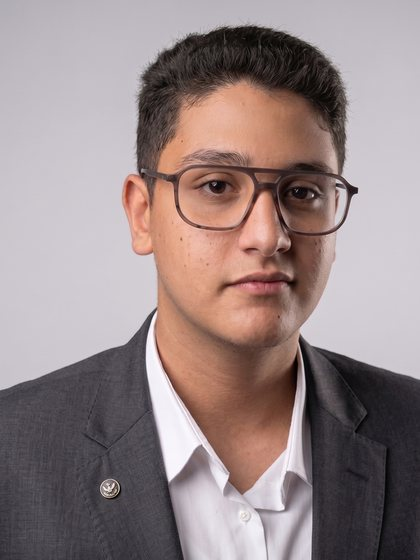
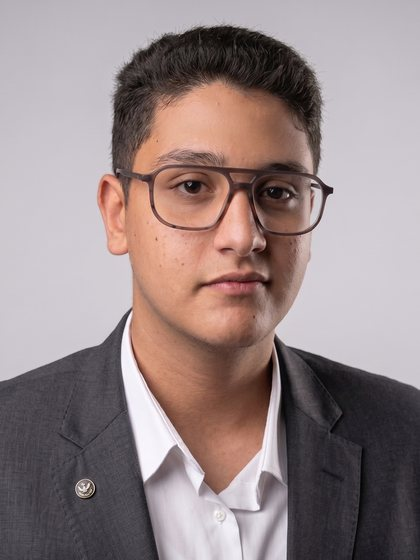
fix: centre the headshot, collapse the Smart Safe gallery, level the contact cards
- update-photo.sh now measures the subject's head against the backdrop and
  derives the crop centring from it instead of assuming dead centre. On this
  headshot the head sits at 0.539 of frame width, so the crop moves to 0.615
  and the face lands centred.
- Smart Safe gallery: one hero shot stays visible as zero-click proof and the
  remaining six move behind a "$ ls build/ — 6 more" toggle. Uses <details>,
  so it needs no JavaScript and is keyboard accessible by default.
- Contact cards stretch to equal height on desktop; the channel rows spread
  to fill so both cards end level. Stacked mobile layout is left alone.

diff --git a/index.html b/index.html
@@ -666,6 +666,64 @@
         grid-template-columns: repeat(auto-fill, minmax(140px, 1fr));
         gap: 10px;
       }
+      .shot-hero {
+        width: 100%;
+        max-width: 400px;
+        margin-bottom: 10px;
+        cursor: zoom-in;
+      }
+      .shot-hero img {
+        aspect-ratio: 4/3;
+      }
+      .shot-hero figcaption {
+        font-size: 11px;
+      }
+      .media-more {
+        margin-top: 2px;
+      }
+      .media-more > summary {
+        display: inline-flex;
+        align-items: center;
+        gap: 8px;
+        width: fit-content;
+        list-style: none;
+        cursor: pointer;
+        font-family: "JetBrains Mono", monospace;
+        font-size: 11.5px;
+        letter-spacing: 0.04em;
+        color: var(--text-dim);
+        background: rgba(92, 122, 107, 0.08);
+        border: 1px solid rgba(92, 122, 107, 0.34);
+        border-radius: 5px;
+        padding: 7px 13px;
+        transition:
+          border-color 0.16s ease,
+          color 0.16s ease;
+      }
+      .media-more > summary::-webkit-details-marker {
+        display: none;
+      }
+      .media-more > summary::before {
+        content: "$";
+        color: var(--green);
+      }
+      .media-more > summary::after {
+        content: "▸";
+        color: var(--green-soft);
+        transition: transform 0.16s ease;
+      }
+      .media-more[open] > summary::after {
+        transform: rotate(90deg);
+      }
+      .media-more > summary:hover,
+      .media-more > summary:focus-visible {
+        border-color: rgba(52, 211, 153, 0.5);
+        color: var(--text);
+        outline: none;
+      }
+      .media-more[open] > summary {
+        margin-bottom: 12px;
+      }
       .shot {
         position: relative;
         display: block;
@@ -939,7 +997,22 @@
         display: grid;
         grid-template-columns: 1fr;
         gap: 20px;
-        align-items: start;
+        align-items: stretch;
+      }
+      .contact-term {
+        display: flex;
+        flex-direction: column;
+      }
+      .contact-term .term-body {
+        flex: 1;
+        display: flex;
+        flex-direction: column;
+      }
+      @media (min-width: 900px) {
+        /* side by side: spread the channel rows so both cards end level */
+        .contact-term .channel {
+          flex: 1 0 auto;
+        }
       }
       @media (min-width: 900px) {
         .contact-grid {
@@ -1557,11 +1630,13 @@
 
               <div class="media-block">
                 <div class="media-label">ls build/</div>
+                <button class="shot shot-hero" type="button" data-cap="The retrofitted safe — RC522 reader mounted in the front panel">
+                  <img src="./assets/smart-safe/retrofit-front.webp" alt="The finished safe with an RFID reader mounted in its front panel" loading="lazy" decoding="async" width="828" height="721" />
+                  <figcaption>retrofit-front — the finished build</figcaption>
+                </button>
+                <details class="media-more">
+                  <summary>ls build/ &mdash; 6 more</summary>
                 <div class="media-grid">
-                  <button class="shot" type="button" data-cap="The retrofitted safe — RC522 reader mounted in the front panel">
-                    <img src="./assets/smart-safe/retrofit-front.webp" alt="The finished safe with an RFID reader mounted in its front panel" loading="lazy" decoding="async" width="828" height="721" />
-                    <figcaption>retrofit-front</figcaption>
-                  </button>
                   <button class="shot" type="button" data-cap="Inside the door — Arduino, relay, solenoid and MPU-6050 wired in">
                     <img src="./assets/smart-safe/internals.webp" alt="Inside the safe door showing the Arduino, relay board and wiring" loading="lazy" decoding="async" width="750" height="1000" />
                     <figcaption>internals</figcaption>
@@ -1587,6 +1662,7 @@
                     <figcaption>demo-enclosure</figcaption>
                   </button>
                 </div>
+                </details>
               </div>
 
               <div class="media-block">
